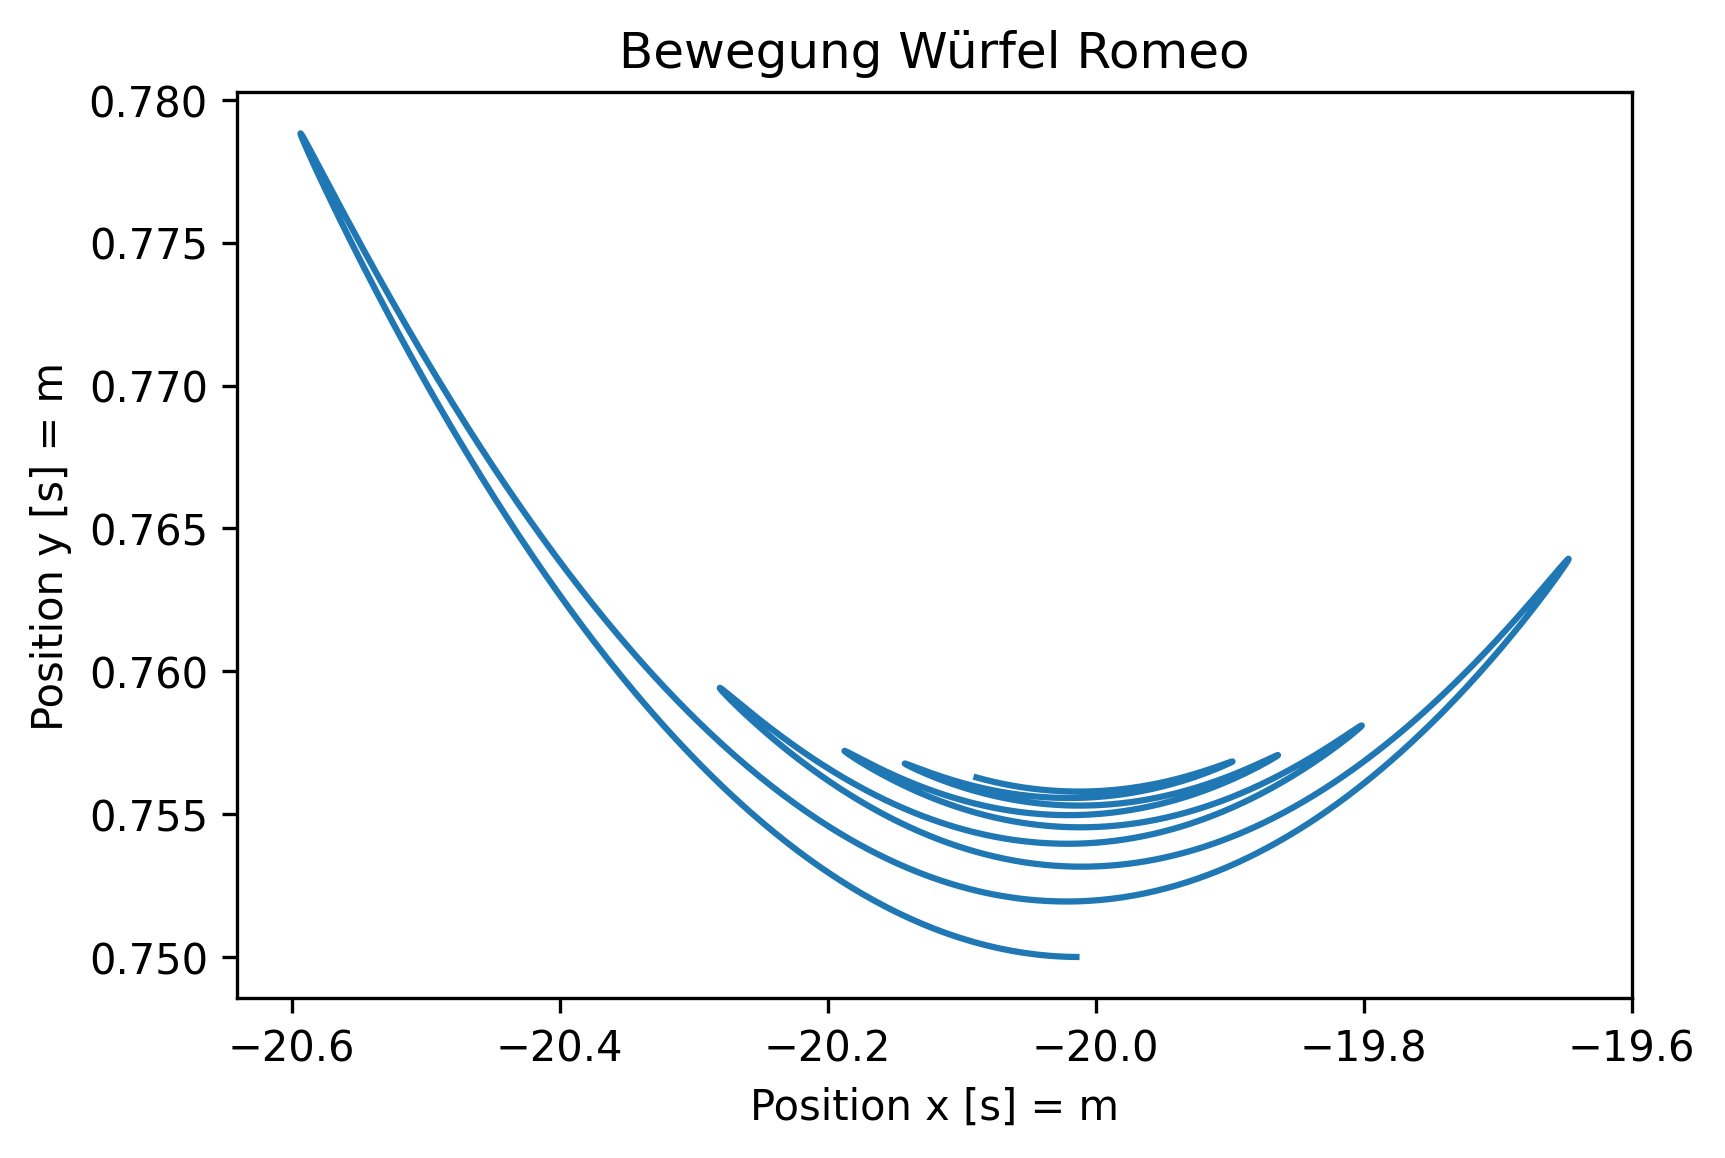
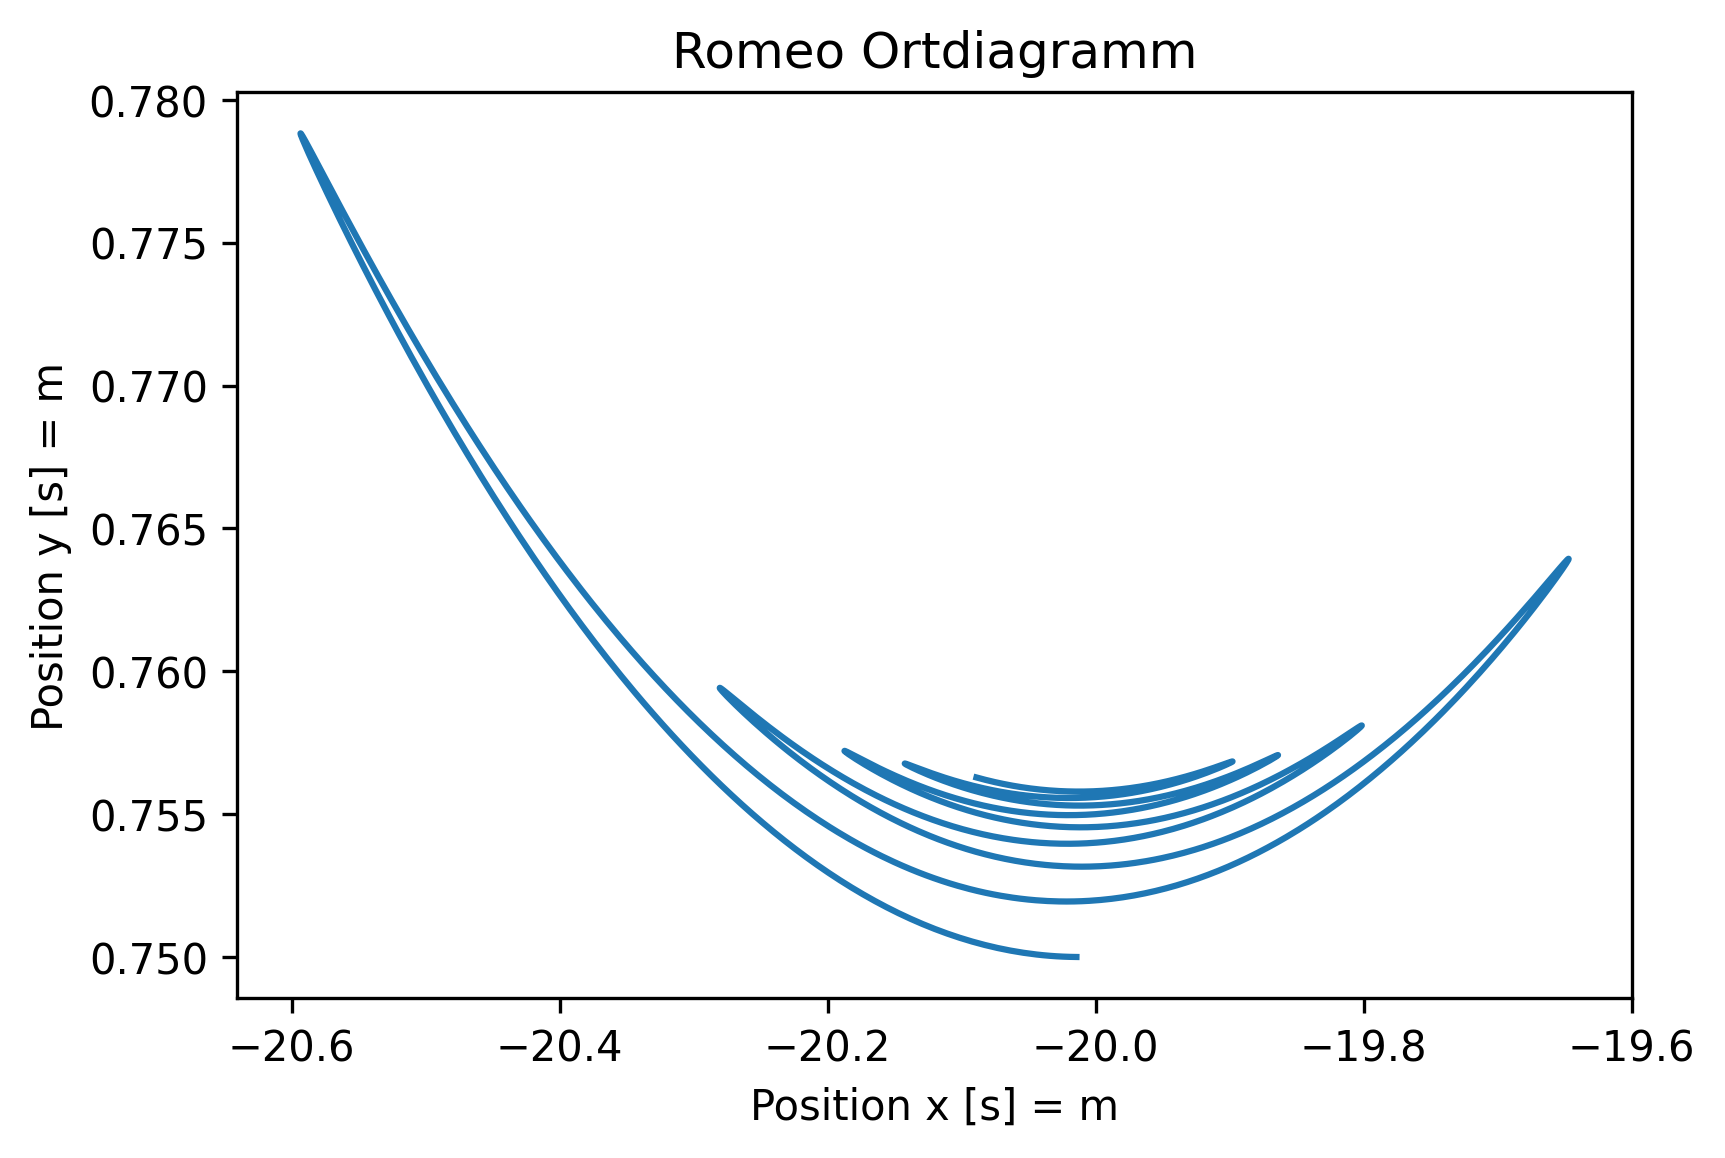
added plots to result chapter

Changed region(s): [[0.338, 0.0311, 0.7374, 0.0622]]

diff --git a/Semesterprojekt Physik Engines/subfiles/ResultateMitGrafischerDarstellung.tex b/Semesterprojekt Physik Engines/subfiles/ResultateMitGrafischerDarstellung.tex
@@ -57,5 +57,41 @@
     \end{figure}
 
 
+    \subsection{Lab 3}
+
+    \begin{figure}[H]
+        \begin{center}
+            \centerline{\includegraphics[width=105mm]{./images/ropeRomeo/Ortdiagramm}}
+            \caption{Romeo Ortsdiagramm}
+            \label{fig:RomeoOrtsdiagramm}
+        \end{center}
+    \end{figure}
+
+
+    \begin{figure}[H]
+        \begin{center}
+            \centerline{\includegraphics[width=105mm]{./images/ropeRomeo/AuslenkungDeg}}
+            \caption{Auslenkung Romeo in Grad als Funktion der Zeit}
+            \label{fig:AuslenkungRomeo}
+        \end{center}
+    \end{figure}
+
+
+    \begin{figure}[H]
+        \begin{center}
+            \centerline{\includegraphics[width=105mm]{./images/ropeJulia/Ortdiagramm}}
+            \caption{Julia Ortsdiagramm}
+            \label{fig:JuliaOrtsdiagramm}
+        \end{center}
+    \end{figure}
+
+
+    \begin{figure}[H]
+        \begin{center}
+            \centerline{\includegraphics[width=105mm]{./images/ropeJulia/AuslenkungDeg}}
+            \caption{Auslenkung Julia in Grad als Funktion der Zeit}
+            \label{fig:AuslenkungJulia}
+        \end{center}
+    \end{figure}
 
 \end{document}
